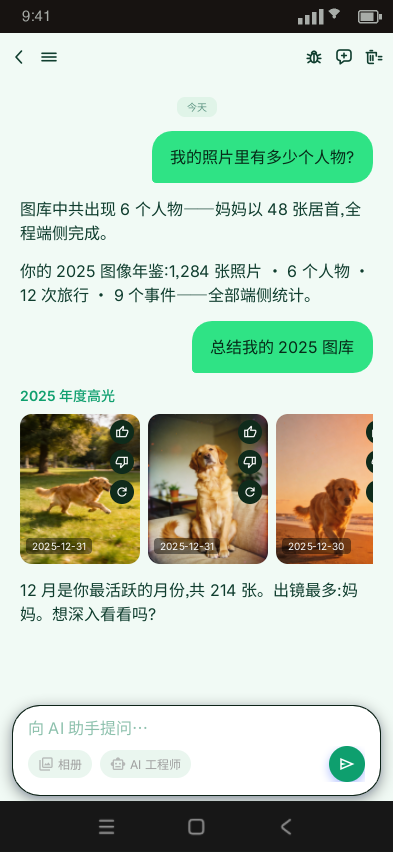
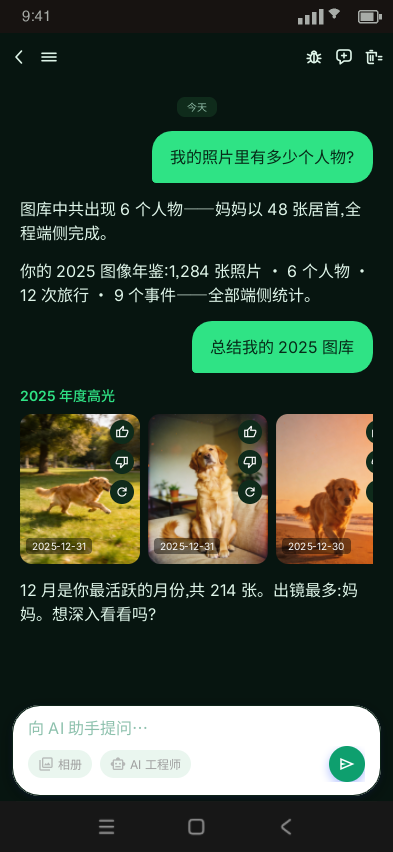
fix(design): 帧主题漂移修复——store01 八帧钉 Dark + 字面量残留回填 token
用户桌面端所见「PlayStoreScreens 没有一帧是对的」确诊：8 个 store01 帧
内容整体渲成 Light（帧未钉主题、文件级默认漂移所致），铬件却被实例钉
强制 Dark——暗铬件压浅色内容=全错。此前审计只查铬件带，对内容主题是
盲区，本修补齐。

修复：
- 8 帧帧级主题钉定 variableModes [{2:2, modeId 2:0(Dark)}]
  （localmodels×3 保持 Light 钉，内容铬件全 Light 正确形态）
- search/store01 两处 Light 实验期字面量残留回填母版 token：
  search_field(392:4)→$2:150、floating_tab(385:115)→$2:156
- 审计工具新增内容主题带检查（y38-70 顶栏背景），--fix 对内容错
  自动补主题钉；memory/detail 等照片 hero 页为 MID 假阳性已目检豁免

验证：导出+桌面双通道 8/8 全 DARK（内容+状态栏+虚拟键），localmodels
全 LIGHT；全画布 50 帧审计通过；线上 zh-TW 01 海报目检为健康深色。
快照全量入库。

diff --git a/scripts/ardot-chrome-audit.py b/scripts/ardot-chrome-audit.py
@@ -121,13 +121,21 @@ def collect_instances(cv):
 
 
 def classify(png_path, kind):
-    """采样渲染 PNG 的状态栏/导航条带 → DARK/LIGHT/MID"""
+    """采样渲染 PNG 的铬件带/内容主题带 → DARK/LIGHT/MID
+
+    kind: status_bar (y0-33) / system_nav_bar (y801-852) / content (y38-70 顶栏背景带，
+    主题判别用——照片内容区无法判主题，顶栏背景是 token 表面色)
+    """
     from PIL import Image
     import numpy as np
     im = Image.open(png_path).convert("L")
     w, h = im.size
-    box = (0, 0, w, int(33 * h / 852)) if kind == "status_bar" else \
-          (0, int(801 * h / 852), w, h)
+    if kind == "status_bar":
+        box = (0, 0, w, int(33 * h / 852))
+    elif kind == "system_nav_bar":
+        box = (0, int(801 * h / 852), w, h)
+    else:  # content
+        box = (0, int(38 * h / 852), w, int(70 * h / 852))
     v = float(np.asarray(im.crop(box), dtype=float).mean())
     return ("DARK" if v < 75 else "LIGHT" if v > 165 else f"MID({v:.0f})"), v
 
@@ -150,11 +158,11 @@ def audit(cv, fix=False):
         files = glob.glob(od + "/**/*.png", recursive=True)
         if not files:
             print(f"  EXPORT-FAIL {fname}")
-            bad.append((page, fid, fname, [], "export-fail"))
+            bad.append((page, fid, fname, [], [], "export-fail"))
             continue
         expect = "LIGHT" if fname in LIGHT_FRAMES else "DARK"
         wrong = []
-        for kind in kinds:
+        for kind in kinds + ["content"]:   # 铬件 + 内容主题（盲区补检）
             got, _ = classify(files[0], kind)
             if got != expect:
                 wrong.append((kind, got))
@@ -162,16 +170,21 @@ def audit(cv, fix=False):
         if wrong:
             print(f"  {mark} {fname}: 期望{expect} 实际 {wrong}")
             bad.append((page, fid, fname,
-                        [i for i in insts if i["frame"] == fid], expect))
+                        [i for i in insts if i["frame"] == fid],
+                        [k for k, _ in wrong], expect))
     if not bad:
         print(f"✅ 全部 {len(by_frame)} 帧铬件一致")
         return 0
     if fix:
         fixed = 0
-        for page, fid, fname, frame_insts, expect in bad:
+        for page, fid, fname, frame_insts, wrong_kinds, expect in bad:
             if not frame_insts:
                 continue
             ops = []
+            # 内容主题错 → 帧级主题钉定（2:2 集；Dark=2:0 / Light=79:1）
+            if any(k == "content" for k in wrong_kinds):
+                mode_id = "2:0" if expect == "DARK" else "79:1"
+                ops.append(f'U("{fid}", {{variableModes: [{{variableSetId: "2:2", modeId: "{mode_id}"}}]}})')
             for it in frame_insts:
                 layers = STATUS_LAYERS if it["kind"] == "status_bar" else NAV_LAYERS
                 dark_vis = "true" if expect == "DARK" else "false"
